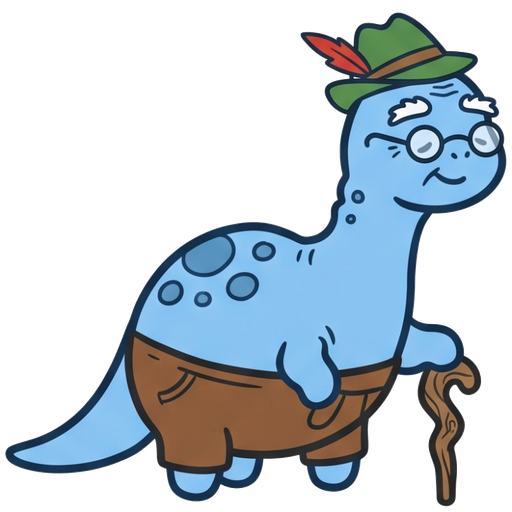
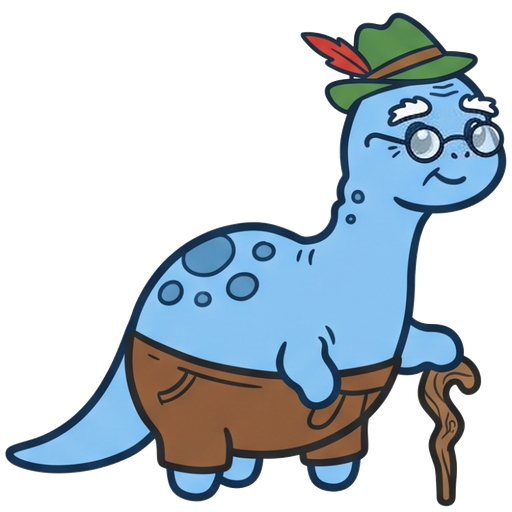
Blink and talk with real frames for the German pet
Each German age now has a normal (eyes open), -blink and -talk frame,
built on one shared body so swaps don't jitter. The mouth-open frame
follows the voice loudness; blinks use the closed-eye frame.

Claude-Session: https://claude.ai/code/session_01AWcizXfGGrsZkR72KFvG63

Changed region(s): [[0.7812, 0.2188, 0.9688, 0.3125]]

diff --git a/saurus.js b/saurus.js
@@ -175,7 +175,16 @@ button{font:inherit;color:inherit;cursor:pointer}
 .float{display:block;width:100%;height:100%;animation:float 4.2s ease-in-out infinite}
 @keyframes float{0%,100%{transform:translateY(0)}50%{transform:translateY(-4px)}}
 .hop,.mover,.art{width:100%;height:100%;display:block;transform-origin:50% 100%}
+.art{position:relative}
 .art svg,.art img{width:100%;height:100%;display:block}
+.art img{position:absolute;inset:0}
+/* frame swaps: blink and mouth-open overlays on the base picture */
+.art .f-blink,.art .f-talk{opacity:0}
+.art.blink .f-blink{opacity:1}
+.art.talking .f-talk{opacity:1}
+.art.talking .f-blink{opacity:0}
+.speak-fallback[data-state="speaking"] .art .f-talk{animation:flap .36s steps(1) infinite}
+@keyframes flap{0%{opacity:1}50%{opacity:0}}
 .d-body{fill:var(--dino);stroke:var(--dino-line);stroke-width:3;stroke-linejoin:round}
 .d-leg2{fill:var(--dino-spot);stroke:var(--dino-line);stroke-width:3}
 .d-belly{fill:var(--dino-spot);stroke:var(--dino-line);stroke-width:2;stroke-linejoin:round}
@@ -224,7 +233,7 @@ button{font:inherit;color:inherit;cursor:pointer}
 @keyframes pop{0%{transform:scale(1)}30%{transform:scale(.7)}62%{transform:scale(1.12)}100%{transform:scale(1)}}
 
 @media (prefers-reduced-motion: reduce){
-  .saurus,.caret::after,.puffing .puff i,.puffing .art,.mover,.hop,.celebrating .hop,.d-mouth,.float,.ctl.held svg{animation:none !important}
+  .saurus,.caret::after,.puffing .puff i,.puffing .art,.mover,.hop,.celebrating .hop,.d-mouth,.float,.ctl.held svg,.art .f-talk{animation:none !important}
   [data-state="listening"] .mover{transform:none}
   .log{scroll-behavior:auto;transition:none}
   .dino-wrap{transition:none}
@@ -637,14 +646,21 @@ mark.saurus-hl{background:transparent;color:inherit;border-radius:.14em;box-shad
     ui.wrap.title = who;
     ui.wrap.setAttribute("aria-label", `Saurus, ${who}`);
     if (!l) return;
-    const url = assetUrl(`assets/saurus-${l}-${lv}.png`);
-    pngExists(url).then((ok) => {
-      if (!ok || my !== artToken) return;
-      const img = document.createElement("img");
-      img.src = url;
-      img.alt = "";
-      img.draggable = false;
-      ui.art.replaceChildren(img);
+    // Optional frames next to the base art: -blink (eyes closed), -talk (mouth open).
+    const url = (suffix) => assetUrl(`assets/saurus-${l}-${lv}${suffix}.png`);
+    Promise.all(["", "-blink", "-talk"].map((sfx) => pngExists(url(sfx)))).then(([base, blink, talk]) => {
+      if (!base || my !== artToken) return;
+      const frame = (sfx, cls) => {
+        const img = document.createElement("img");
+        img.src = url(sfx);
+        img.alt = "";
+        img.draggable = false;
+        img.className = cls;
+        return img;
+      };
+      ui.art.replaceChildren(frame("", "f-base"),
+        ...(blink ? [frame("-blink", "f-blink")] : []),
+        ...(talk ? [frame("-talk", "f-talk")] : []));
     });
   }
 
@@ -664,7 +680,7 @@ mark.saurus-hl{background:transparent;color:inherit;border-radius:.14em;box-shad
     avatarState = s;
     if (!ui) return;
     ui.root.dataset.state = s;
-    if (s !== "speaking") { ui.mover.style.transform = ""; ui.art.style.setProperty("--m", "0"); }
+    if (s !== "speaking") { ui.mover.style.transform = ""; ui.art.style.setProperty("--m", "0"); ui.art.classList.remove("talking"); }
   }
 
   let celebrateTimer = 0;
@@ -708,6 +724,10 @@ mark.saurus-hl{background:transparent;color:inherit;border-radius:.14em;box-shad
     loud += (Math.min(1, rms * 5) - loud) * 0.35;
     ui.mover.style.transform = `translateY(${(-loud * 6).toFixed(2)}px) scale(${(1 - loud * 0.03).toFixed(3)},${(1 + loud * 0.05).toFixed(3)})`;
     ui.art.style.setProperty("--m", Math.min(1, loud * 1.6).toFixed(2));
+    // mouth-open frame while the voice is loud (with a little hysteresis)
+    const open = ui.art.classList.contains("talking");
+    if (!open && loud > 0.14) ui.art.classList.add("talking");
+    else if (open && loud < 0.08) ui.art.classList.remove("talking");
   }
 
   // ---------------------------------------------------------------------
